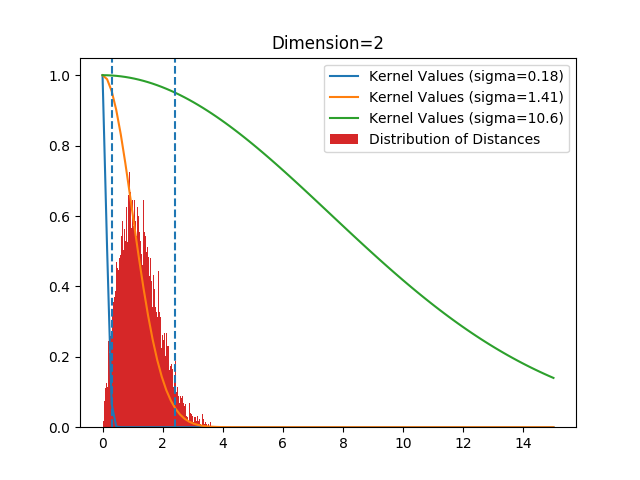
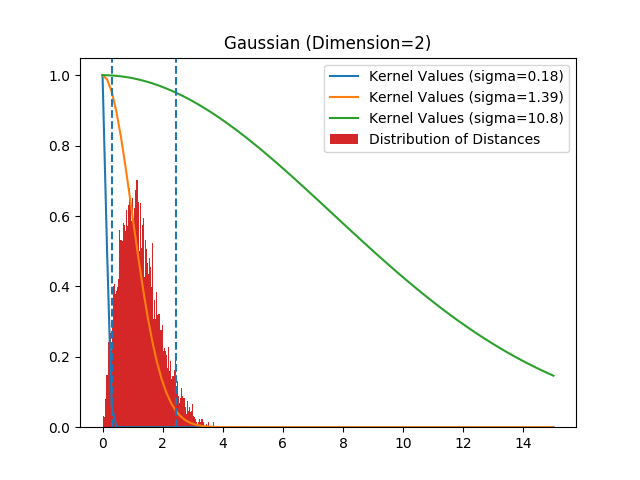
showed Gaussian failing for high dim

diff --git a/Presentation 1/Code/c4_improvement_with_p_gaussian.py b/Presentation 1/Code/c4_improvement_with_p_gaussian.py
@@ -12,14 +12,15 @@ df1 = lambda x : get_distances(x,order=2.0)
 
 for dim in dimensions:
 	sigma_data=1.0
-	actual_data = np.random.multivariate_normal( mean=np.zeros(dim), cov=sigma_data**2 * np.eye(dim), size = N ) 
+	actual_data = np.random.multivariate_normal(mean=np.zeros(dim), cov=sigma_data**2 * np.eye(dim), size=N) 
 	actual_distances = df1(actual_data) 
 
-	#estimating hyperparameter sigma using thumb rule in paper 
+	#estimating hyperparameters p, sigma using thumb rule in paper 
 	d_5, d_50, d_95 = np.percentile(actual_distances,5),np.percentile(actual_distances,50),np.percentile(actual_distances,95)
-	sigma = d_50/((-np.log(0.5))**0.5)
-	sigma1 = d_5/((-np.log(0.05))**0.5)
-	sigma2 = d_95/((-np.log(0.95))**0.5)
+	p = np.log(np.log(0.05)/np.log(0.95)) / np.log(d_95/d_5) 
+	sigma = d_50/((-np.log(0.50))**(1/p))
+	sigma1 = d_5/((-np.log(0.05))**(1/p))
+	sigma2 = d_95/((-np.log(0.95))**(1/p))
 
 
 	dist_vals = np.linspace( 0, np.max( (np.max(actual_distances)+5, 15) ) , 100)
@@ -35,7 +36,7 @@ for dim in dimensions:
 	ax.hist(actual_distances,bins=200,density=True,label="Distribution of Distances") 
 	ax.axvline(d_5,ls='--')
 	ax.axvline(d_95,ls='--')
-	ax.set_title("Gaussian (Dimension="+str(dim)+")")
+	ax.set_title("Dimension="+str(dim))
 	ax.legend() 
 	fig.savefig('../Graphs/g3_problem_with_Gaussian_dim='+str(dim)+'.png')
 
